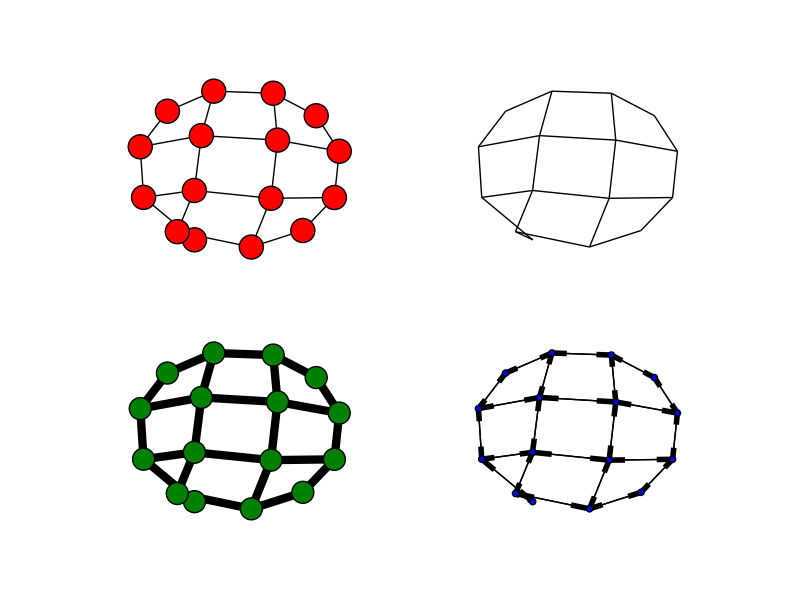
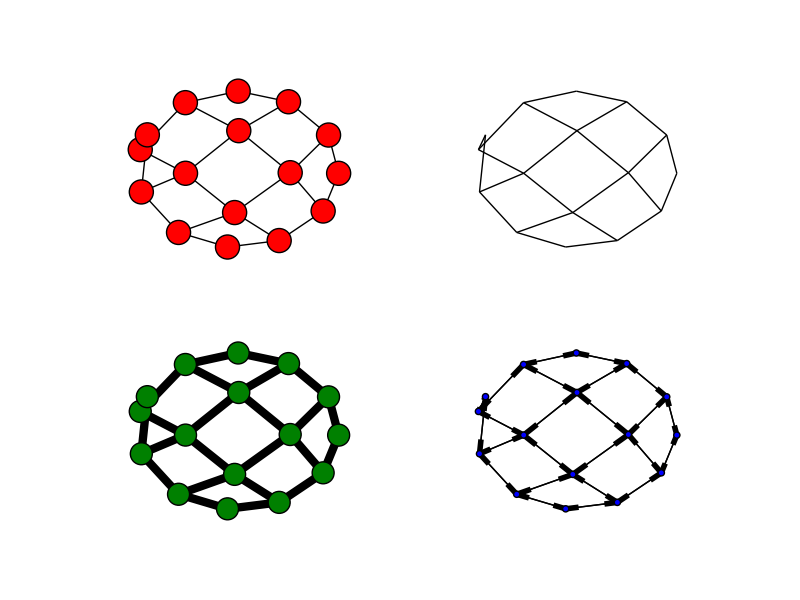
4Grid file can now draw NxN grids with the names <-- (1,N*N)

diff --git a/scripts/4Grid.py b/scripts/4Grid.py
@@ -35,3 +35,29 @@ nx.draw(H,pos,node_color='b',node_size=20,with_labels=False)
 
 plt.savefig("four_grids.png")
 plt.show()
+
+
+
+######################
+#Another grid, but this one can be anysize
+
+
+
+try:
+    import matplotlib.pyplot as pltGrid
+except:
+    raise
+
+
+
+
+
+
+N = 10
+G=nx.grid_2d_graph(N,N)
+pos = dict( (n, n) for n in G.nodes() )
+labels = dict( ((i, j), i * 10 + j) for i, j in G.nodes() )
+nx.draw_networkx(G, pos=pos, labels=labels)
+
+pltGrid.axis('off')
+pltGrid.show()

diff --git a/scripts/search.py b/scripts/search.py
@@ -3,6 +3,7 @@ import networkx as graphLibrary
 from collections import deque
 
 #functions
+#Time 
 def depthFirstSearch(graphToSearch, startNode, endNode):
     print("DFS called");
     print "Start Node: " + str(startNode) + "; End Node: " + str(endNode);
@@ -93,3 +94,4 @@ def breadthFirstSearch(graphToSearch, startNode, endNode):
 
 def aStarSearch(graphToSearch, startNode):
     print("A* search called");
+    
